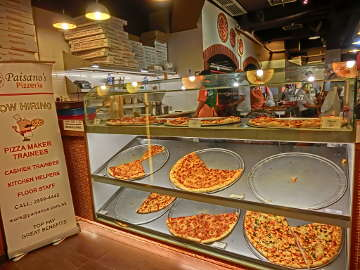
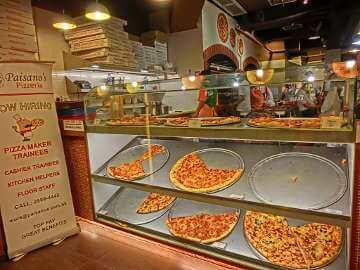
Compress pizzeria image

diff --git a/views/pizza.html b/views/pizza.html
@@ -118,7 +118,7 @@
         <div id="randomPizzas" class="row">
           <div id="pizza0" class="randomPizzaContainer" style="width:33.33%;">
             <div class="col-md-6">
-              <img src="images/pizza.png" class="img-responsive">
+              <img src="images/pizza_min.png" class="img-responsive">
             </div>
             <div class="col-md-6">
               <h4>The Udacity Special</h4>
